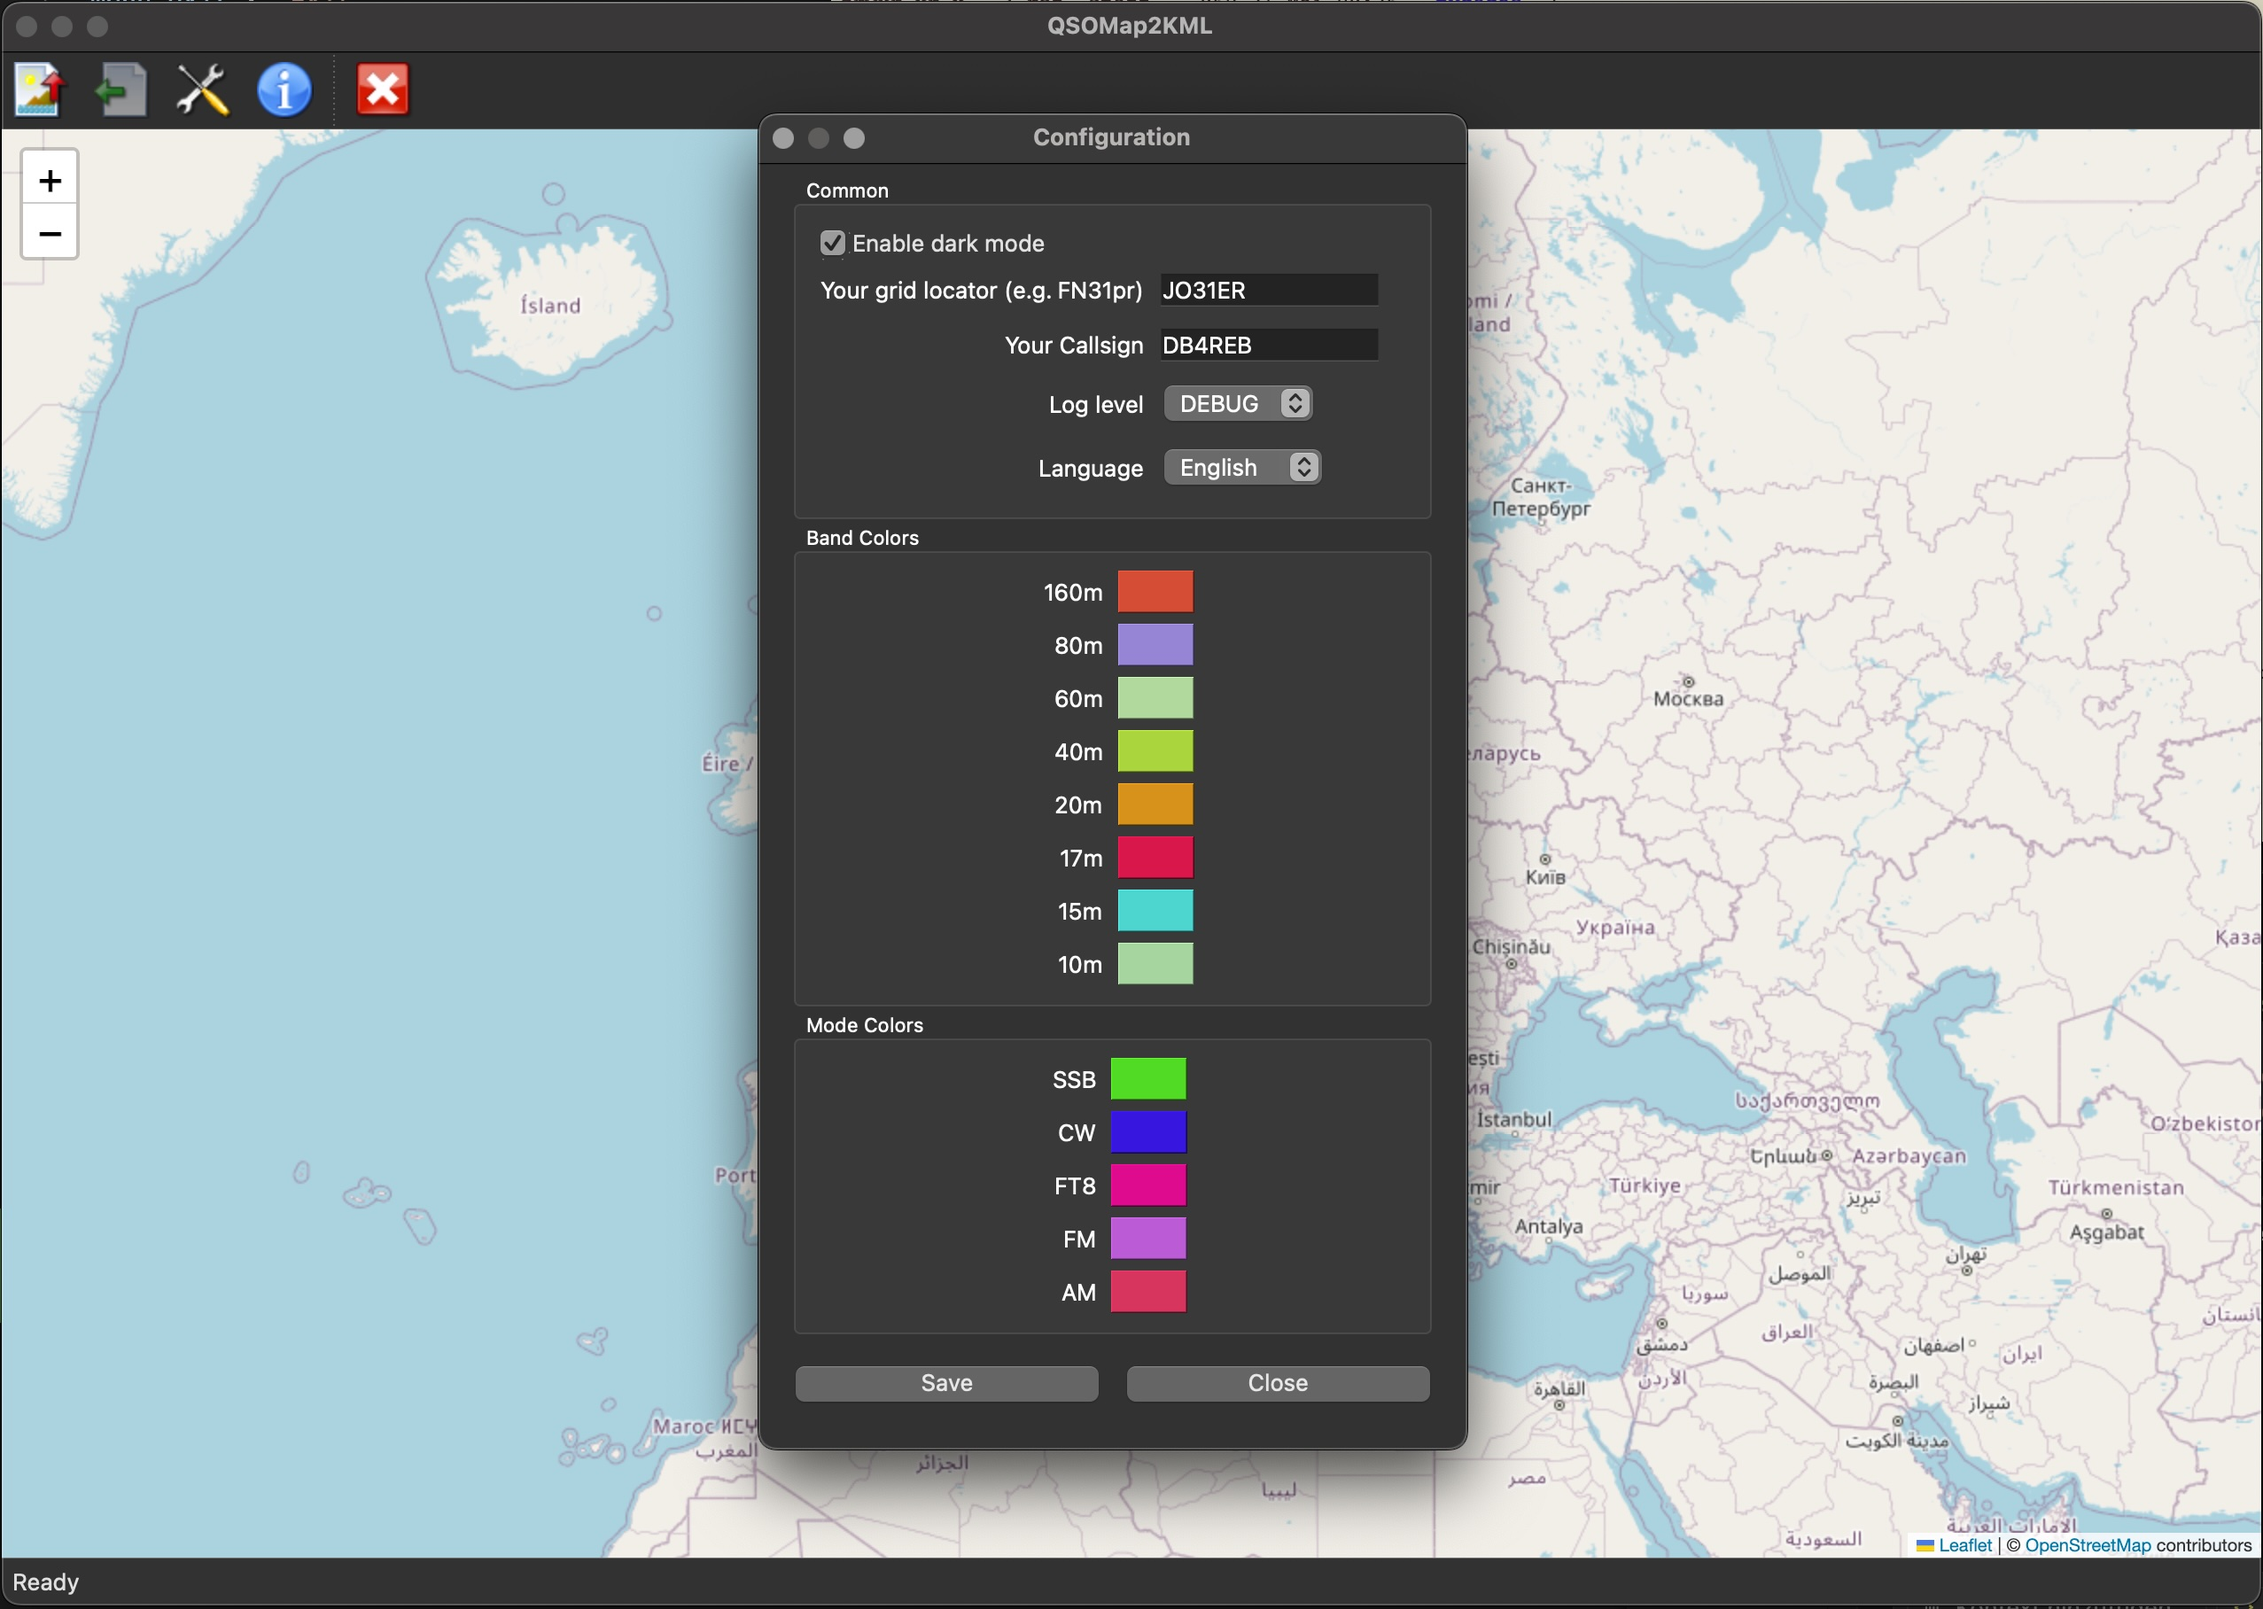
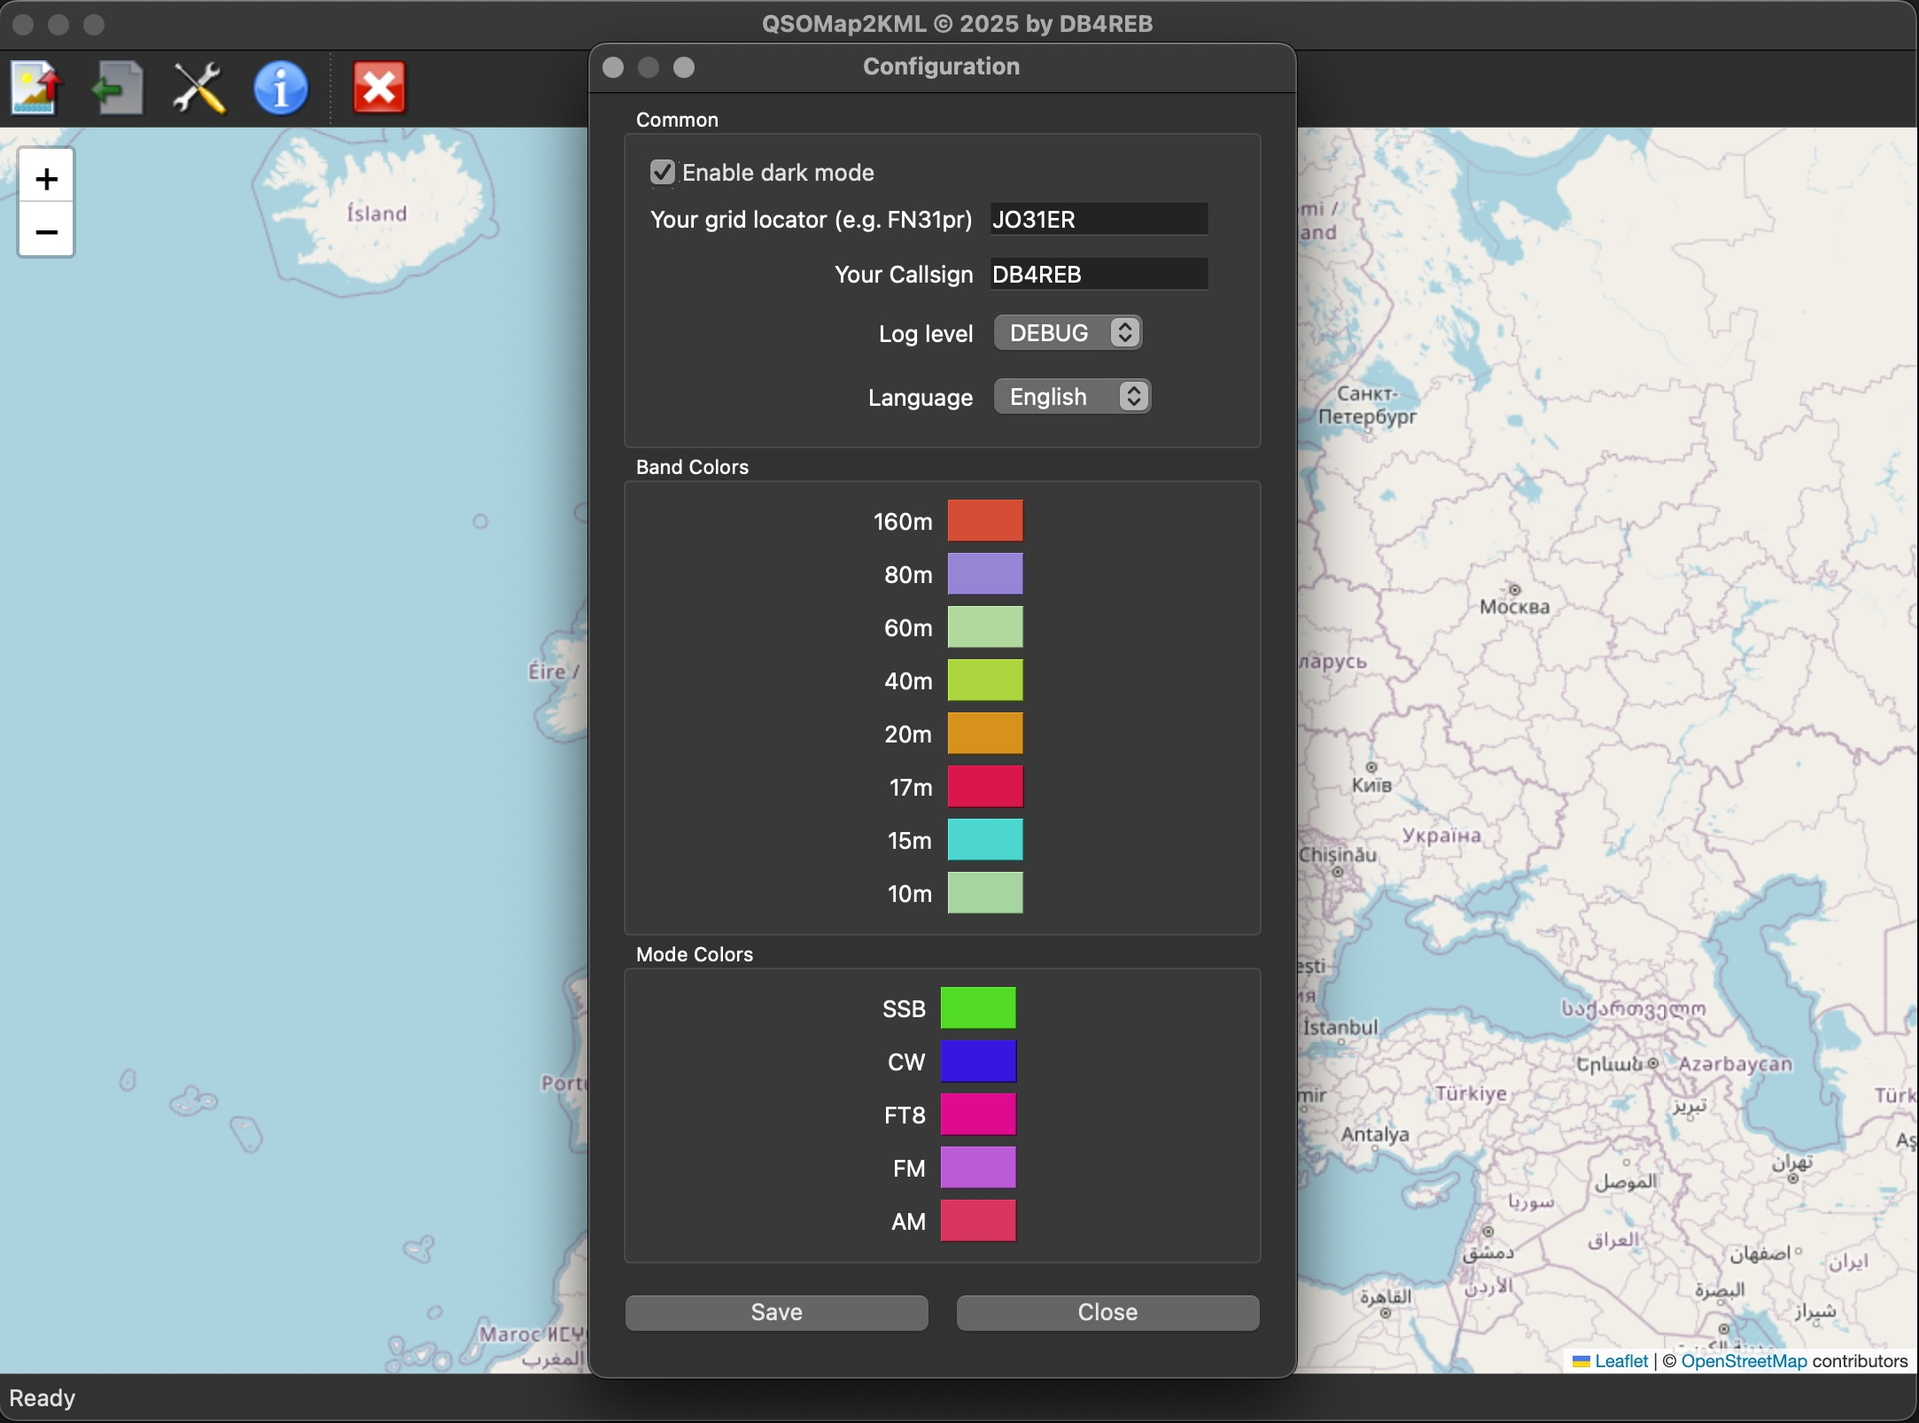
Change AppTitle and Screenshots

diff --git a/gui/main_window.py b/gui/main_window.py
@@ -22,7 +22,7 @@ class MainWindow(QMainWindow):
     def __init__(self, i18n: I18n):
         super().__init__()
         self.i18n = i18n
-        self.setWindowTitle("QSOMap2KML")
+        self.setWindowTitle("QSOMap2KML © 2025 by DB4REB")
         self.setMinimumSize(900, 600)
         self.status_bar = StatusBar(self, self.i18n)
         self.setStatusBar(self.status_bar)

diff --git a/main.py b/main.py
@@ -18,7 +18,7 @@ def main():
 
     app = QApplication(sys.argv)
     app.setWindowIcon(QIcon(resource_path("resources/icons/Flow block.png")))
-    app.setApplicationName("QSOMapGE")
+    app.setApplicationName("QSOMap2KML © 2025 by DB4REB")
     window = MainWindow(i18n)
     window.show()
     sys.exit(app.exec())
